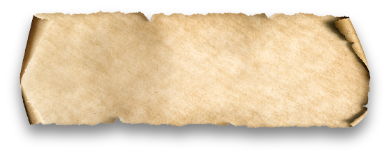
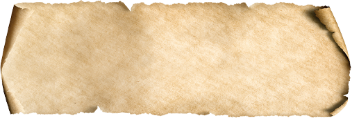
updates

diff --git a/style.scss b/style.scss
@@ -439,8 +439,8 @@ button{
 
     &__text{
         background-image: url(img/title-background.png);
-        width: 45rem;
-        height: 21rem;
+        width: 35.2rem;
+        height: 11.8rem;
         background-size: cover;
         background-repeat: no-repeat;
         background-position: center;
@@ -452,7 +452,7 @@ button{
         @extend%center-item;
         transition: all .2s ease-in-out;
         @media(max-width:37.5rem){
-          background-size: contain;
+          background-size: cover;
           width: 34.5rem;
           height: 17rem;
           top: 0.4rem;
@@ -466,7 +466,8 @@ button{
     &__title{
         font-size: 2.2rem;
         display: block;
-        margin-top: -1rem;
+        margin-top: 1rem;
+        
         @extend%font-title;
         @media(max-width:37.5em){
           font-size: 1.6rem;
@@ -729,6 +730,7 @@ button{
         left: 50%;
         top: -5rem;
         transform: translateX(-30%);
+        opacity: 0;
         @media(max-width:75em){
           position: absolute;
           left: 29%;
@@ -776,7 +778,7 @@ button{
    }
 
    .characters-section__character-details {
-    flex: 0 1 65%;
+    flex: 1;
     transform: translateY(14rem);
     @media(max-width:767px){
       transform: translateY(0);
@@ -817,7 +819,7 @@ button{
       }
   }
   .chara-info__sub-title::after{
-      top: 5rem;
+      top: 3rem;
       @media(max-width:768px){
        top: 3rem;
       }

diff --git a/style.css b/style.css
@@ -486,8 +486,8 @@ body {
 
 .main-banner__text {
   background-image: url(img/title-background.png);
-  width: 45rem;
-  height: 21rem;
+  width: 35.2rem;
+  height: 11.8rem;
   background-size: cover;
   background-repeat: no-repeat;
   background-position: center;
@@ -501,7 +501,7 @@ body {
 
 @media (max-width: 37.5rem) {
   .main-banner__text {
-    background-size: contain;
+    background-size: cover;
     width: 34.5rem;
     height: 17rem;
     top: 0.4rem;
@@ -511,7 +511,7 @@ body {
 .main-banner__title {
   font-size: 2.2rem;
   display: block;
-  margin-top: -1rem;
+  margin-top: 1rem;
 }
 
 @media (max-width: 37.5em) {
@@ -809,6 +809,7 @@ body {
   left: 50%;
   top: -5rem;
   transform: translateX(-30%);
+  opacity: 0;
 }
 
 @media (max-width: 75em) {
@@ -871,7 +872,7 @@ body {
 }
 
 .wander .characters-section__character-details {
-  flex: 0 1 65%;
+  flex: 1;
   transform: translateY(14rem);
 }
 
@@ -928,7 +929,7 @@ body {
 }
 
 .wander .chara-info__sub-title::after {
-  top: 5rem;
+  top: 3rem;
 }
 
 @media (max-width: 768px) {

diff --git a/js/custom.js b/js/custom.js
@@ -413,7 +413,7 @@ gsap.registerPlugin(ScrollTrigger);
 
 ScrollTrigger.defaults({
     toggleActions: 'play pause reverse none',
-    markers: false,
+    markers:false,
 });
 
 /* HERO */
@@ -499,5 +499,35 @@ hero1
       pin: false,
       id: 'ozka_out'
     });
+
+
+
+
+    var waleefz = gsap.timeline({defaults:{
+      ease: "back"
+    }
+    });
+    
+    waleefz
+    
+      .from('.waleef .characters-section__character-img', { opacity: 0, scale:0,Y: '-500px' })
+    
+      var waleefz_out = gsap.timeline({defaults:{
+        ease: "none"
+      }});
+      
+      waleefz_out
+      .to('.waleef .characters-section__character-img', { opacity: 1, scale:1, duration: .3,Y: '0' }, "<")
+      
+      ScrollTrigger.create({
+        animation: waleefz_out,
+        trigger: '.waleef',
+        start: '0% 50%',
+        end: '50% 50%',
+        scrub: 1,
+        pin: false,
+        id: 'waleefz_out'
+      });
+  
 
 

diff --git a/index.html b/index.html
@@ -229,12 +229,7 @@
           </div>
           
         </div>
-        <div class="characters-section__character">
-          <div class="characters-section__character-set">
-            <img class="characters-section__character-bg" src="img/wander-bg.png" alt="bg">
-            <img class="characters-section__character-img" src="img/wander.png" alt="zoya">
-          </div>
-      </div>
+       
         </div>
 
           <!-- mobile slider -->
